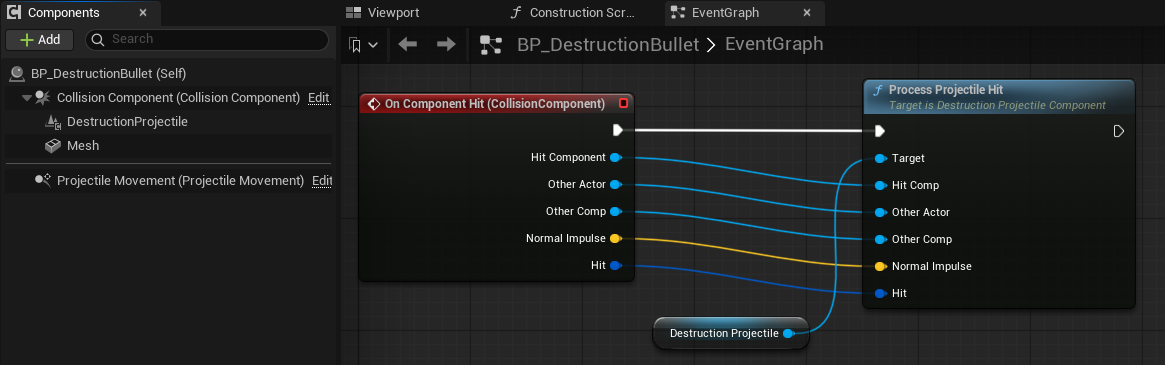
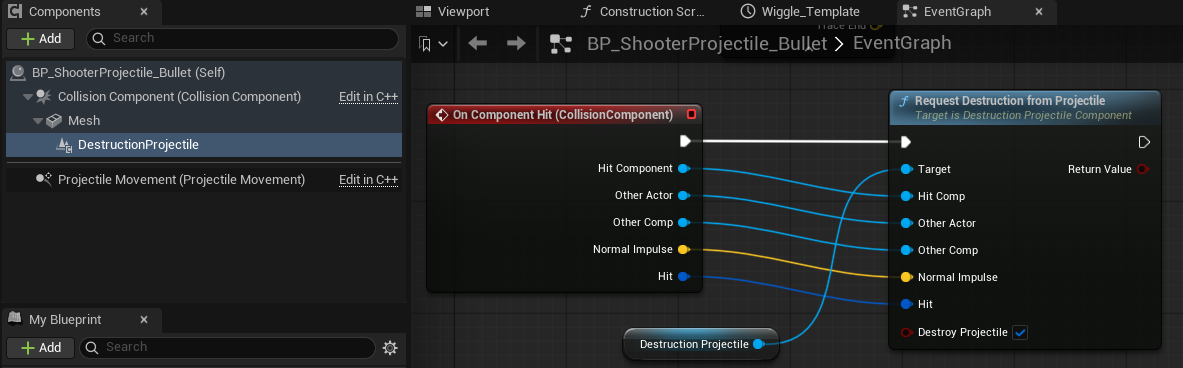
feat: DestructionProjectile 문서 수정, 앵커에디터 알려진 문제 추가

diff --git a/OnlineDocumentation/ko/basic-usage.md b/OnlineDocumentation/ko/basic-usage.md
@@ -27,11 +27,15 @@ Realtime Destructible Mesh 플러그인은 연산 속도 향상을 위해 원본
 ▲ 직육면체의 source mesh를 2x2x2개의 chunk mesh들로 만든 모습  
   세팅이 완료된 Realtime Destructible Mesh 컴포넌트의 파괴를 트리거하는 역할은 **Destruction Projectile** 컴포넌트가 담당합니다. UDesturctionProjectileComponent::ProcessProjectileHit 메소드의 OtherComp 매개변수에 파괴하고자 하는 Realtime Destructible Mesh 컴포넌트를 인자로 전달하여 파괴를 수행할 수 있습니다.
 
-가장 일반적인 사용방법은 아래와 같이 총탄의 콜리젼 컴포넌트의 자식으로 Destruction Projectile 컴포넌트를 추가하고, On Component Hit 이벤트를 통해 호출하는 것입니다.  
+가장 일반적인 사용방법은 아래와 같이 총탄의 콜리젼 컴포넌트의 자식으로 Destruction Projectile 컴포넌트를 추가하고, On Component Hit 이벤트를 통해 Request Destruction from Projectile 함수를 호출하는 것입니다.  
 ![][image8]
 
-Hitscan 방식을 채택하여 별도의 투사체가 없는 경우 DestructionProjectile을 플레이어 액터에 추가하고, ProcessProjectileHit을 직접 호출하거나 GAS를 통해 호출하는 방식 등을 고려할 수 있습니다.   
+Hitscan 방식을 채택하여 별도의 투사체가 없는 경우 DestructionProjectile을 플레이어 액터에 추가하고 Request Destruction from Projectile 함수를 호출하여 사용할 수 있습니다.
 ![][image9]
+
+C++ Raw Api를 직접 사용하고 싶다면 DestructionProjectile의 디테일 패널에서 Auto Bind Hit 체크박스를 활성화 하십시오.
+![][image24]
+\*현재 투사체에 대한 Raw Api 호출만 지원하고 있습니다. 투사체의 콜리젼 컴포넌트의 자식으로 Destruction Projectile 컴포넌트를 추가하십시오.
 
 [image4]: ../images/image4.png
 
@@ -58,4 +62,6 @@ Hitscan 방식을 채택하여 별도의 투사체가 없는 경우 DestructionP
 
 
 [image7]: ../images/image7.png
+
+[image24]: ../images/image24.png
 

diff --git a/OnlineDocumentation/en/basic-usage.md b/OnlineDocumentation/en/basic-usage.md
@@ -29,8 +29,12 @@ The Realtime Destructible Mesh plugin manages the original mesh by splitting it 
 The most common method of use is to add the Destruction Projectile Component as a child of the bullet's collision component and call it through the On Component Hit event, as shown below.  
 ![][image8]
 
-If you adopt a Hitscan method and there is no separate projectile, you can consider adding DestructionProjectile to the Player Actor and calling ProcessProjectileHit directly or through the Gameplay Ability System (GAS).  
+If you adopt a hitscan method and there is no separate projectile, you can consider adding DestructionProjectile to the Player Actor and calling Request Destruction from Projectile.
 ![][image9]
+
+If you want to use the C++ Raw API directly, enable the Auto Bind Hit checkbox in the DestructionProjectile’s details panel.
+![][image24]
+\*Currently, only Raw API calls for projectiles are supported. Add the DestructionProjectile component as a child of the projectile’s collision component.
 
 [image4]: ../images/image4.png
 
@@ -58,3 +62,4 @@ If you adopt a Hitscan method and there is no separate projectile, you can consi
 
 [image7]: ../images/image7.png
 
+[image24]: ../images/image24.png

diff --git a/OnlineDocumentation/en/anchor-editor.md b/OnlineDocumentation/en/anchor-editor.md
@@ -22,8 +22,14 @@ The picture below shows the result of spawning an Anchor Volume, moving the anch
 ![][image22]
 
 ![][image23]
+<br>
 ▲ You can confirm that the anchors are set correctly by turning on Grid Cell Debug.
+<br>
 
+---
+Known Issue
+* Anchor Actors duplicated via Alt+Drag are not properly registered in the destruction system and therefore are ignored during anchor creation/removal calculations.
+  
 
 
 [image22]: ../images/image22.png
